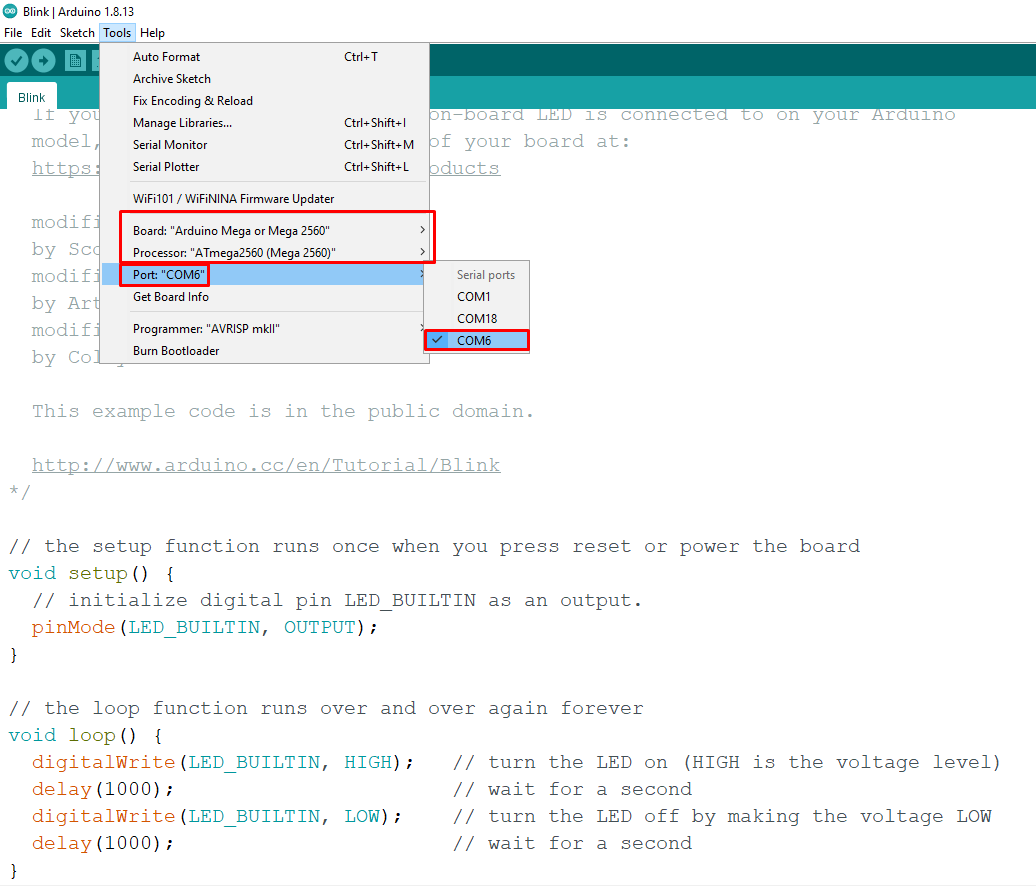
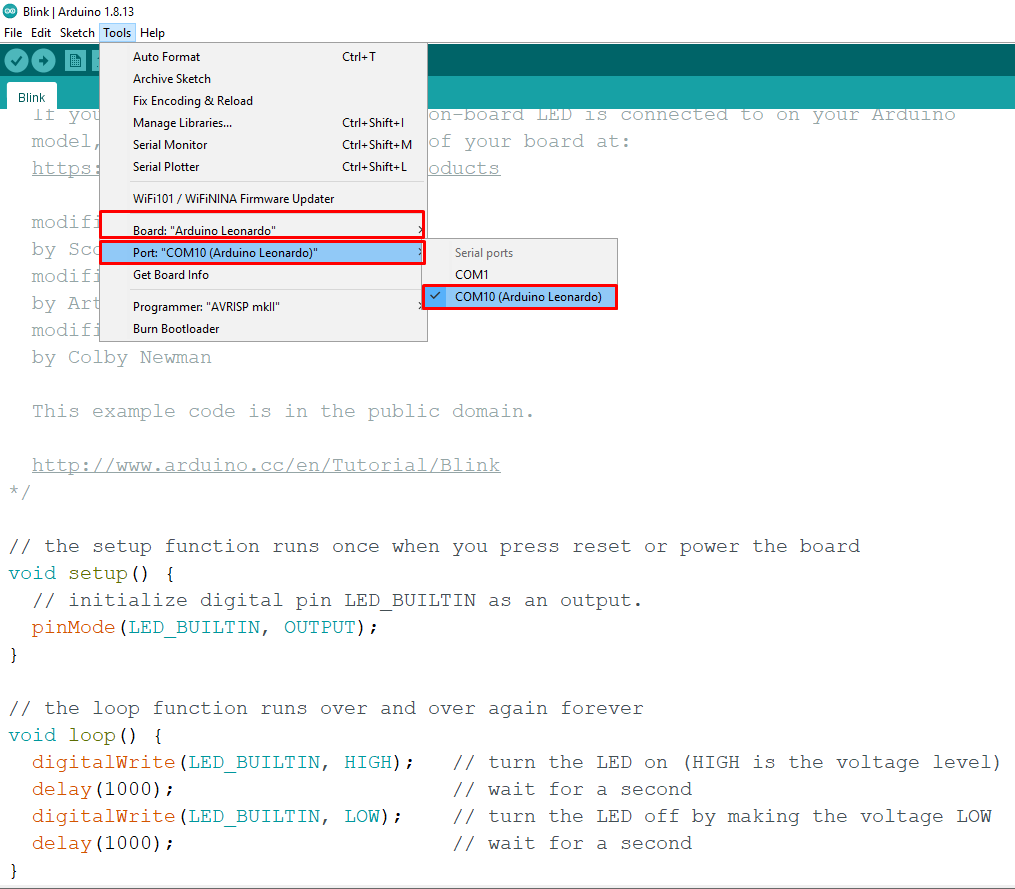
Update

diff --git a/AA1004/README.md b/AA1004/README.md
@@ -11,7 +11,6 @@
 -   [Test](#test)
     -   [Test Code](#test-code)
     -   [Test Result](#test-result)
--   [Troubleshooting for Windows](#troubleshooting-for-windows)
 -   [References](#references)
 
 ---
@@ -113,10 +112,9 @@ It also has other implications for the behavior of the board.
 | ---------------------------------------------- |
 | Choose a blink example                         |
 
-| ![alt text](assets/software_13.png 'Leonardo')                                            |
-| ----------------------------------------------------------------------------------------- |
-| Choose the "Arduino Uno" Board type & Port, if not selected                               |
-| If the 'Port' button is unactivated, See the [Troubleshooting](#troubleshooting) section. |
+| ![alt text](assets/software_13.png 'Leonardo')              |
+| ----------------------------------------------------------- |
+| Choose the "Arduino Uno" Board type & Port, if not selected |
 
 | ![alt text](assets/software_14.png 'Leonardo')                      |
 | ------------------------------------------------------------------- |
@@ -148,36 +146,6 @@ void loop() {
 
 | ![alt text](assets/arduino_mega_blink.gif 'Leonardo') |
 | ----------------------------------------------------- |
-
----
-
-## Troubleshooting for Windows
-
-| ![alt text](assets/trouble_1.png 'Port blocked')                                            |
-| ------------------------------------------------------------------------------------------- |
-| If the 'port' button is unactivated, you need to install the CH340 Driver [here.](Drivers/) |
-| For more information, please visit [here.](https://sparks.gogo.co.nz/ch340.html)            |
-
-| ![alt text](assets/trouble_2.png 'Port blocked') |
-| ------------------------------------------------ |
-| After downloading, Extract the Zip file          |
-
-| ![alt text](assets/trouble_3.png 'Port blocked') |
-| ------------------------------------------------ |
-| Click the 'Extract'                              |
-
-| ![alt text](assets/trouble_4.png 'Port blocked')       |
-| ------------------------------------------------------ |
-| You will see an app, just run it to install the driver |
-
-| ![alt text](assets/trouble_6.png 'Port blocked') |
-| ------------------------------------------------ |
-| Click the 'Install'                              |
-
-| ![alt text](assets/trouble_7.png 'Port blocked')                                |
-| ------------------------------------------------------------------------------- |
-| Then you will see this message! Restart the Arduino IDE                         |
-| If you fail to install, connect the Arduino to the PC and then retry to install |
 
 ---
 

diff --git a/AA1002/README.md b/AA1002/README.md
@@ -115,7 +115,7 @@ The Mega 2560 board is compatible with most shields designed for the Uno and the
 
 | ![alt text](assets/software_13.png 'Mega2560 R3')                                         |
 | ----------------------------------------------------------------------------------------- |
-| Choose the "Arduino Uno" Board type & Port, if not selected                               |
+| Choose the "Arduino Mega or Mega2560" Board type & Port, if not selected                  |
 | If the 'Port' button is unactivated, See the [Troubleshooting](#troubleshooting) section. |
 
 | ![alt text](assets/software_14.png 'Mega2560 R3')                   |
